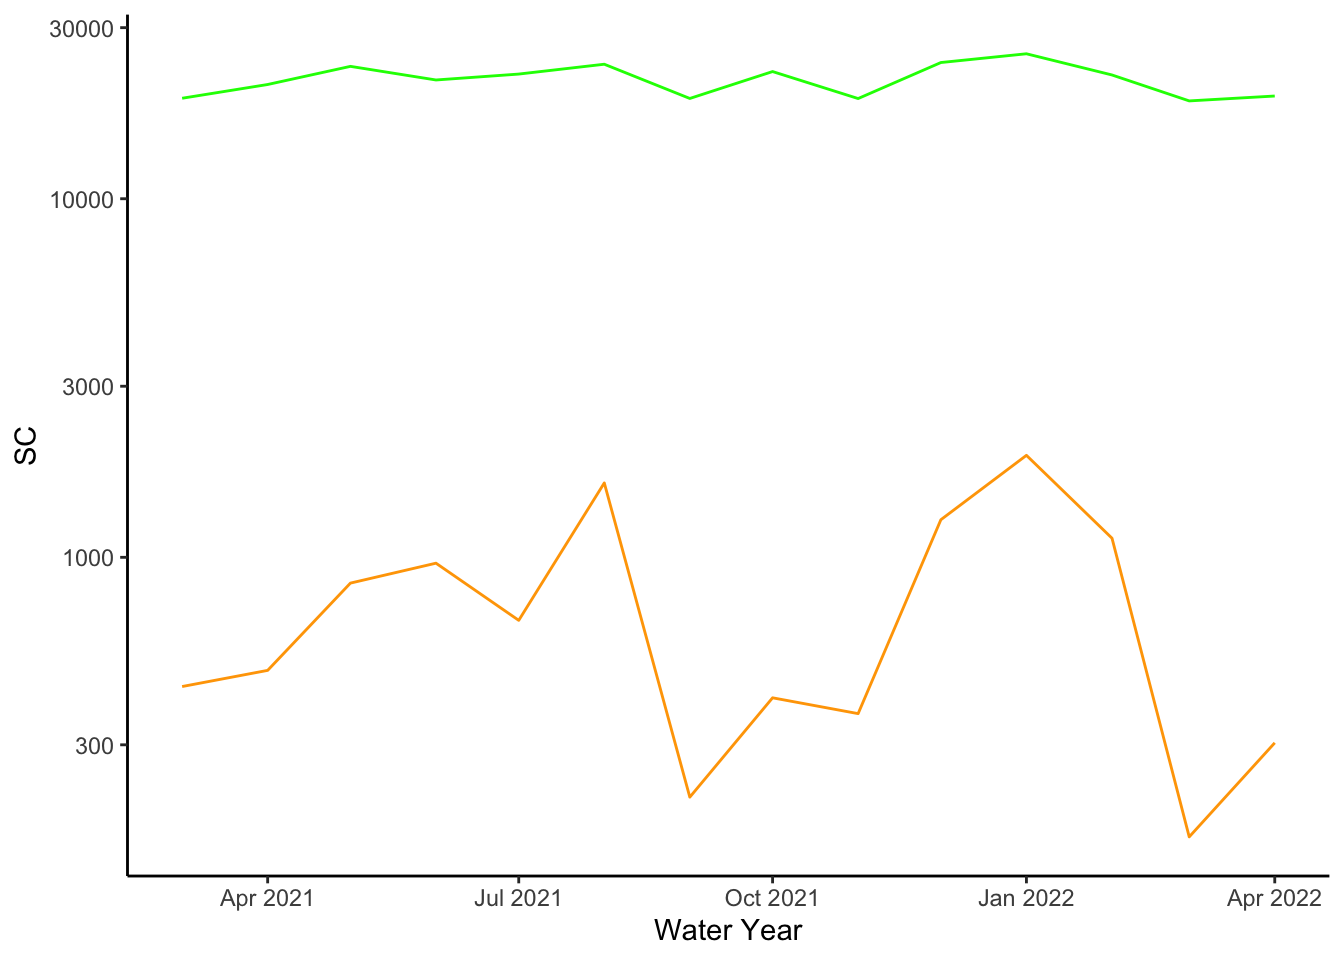
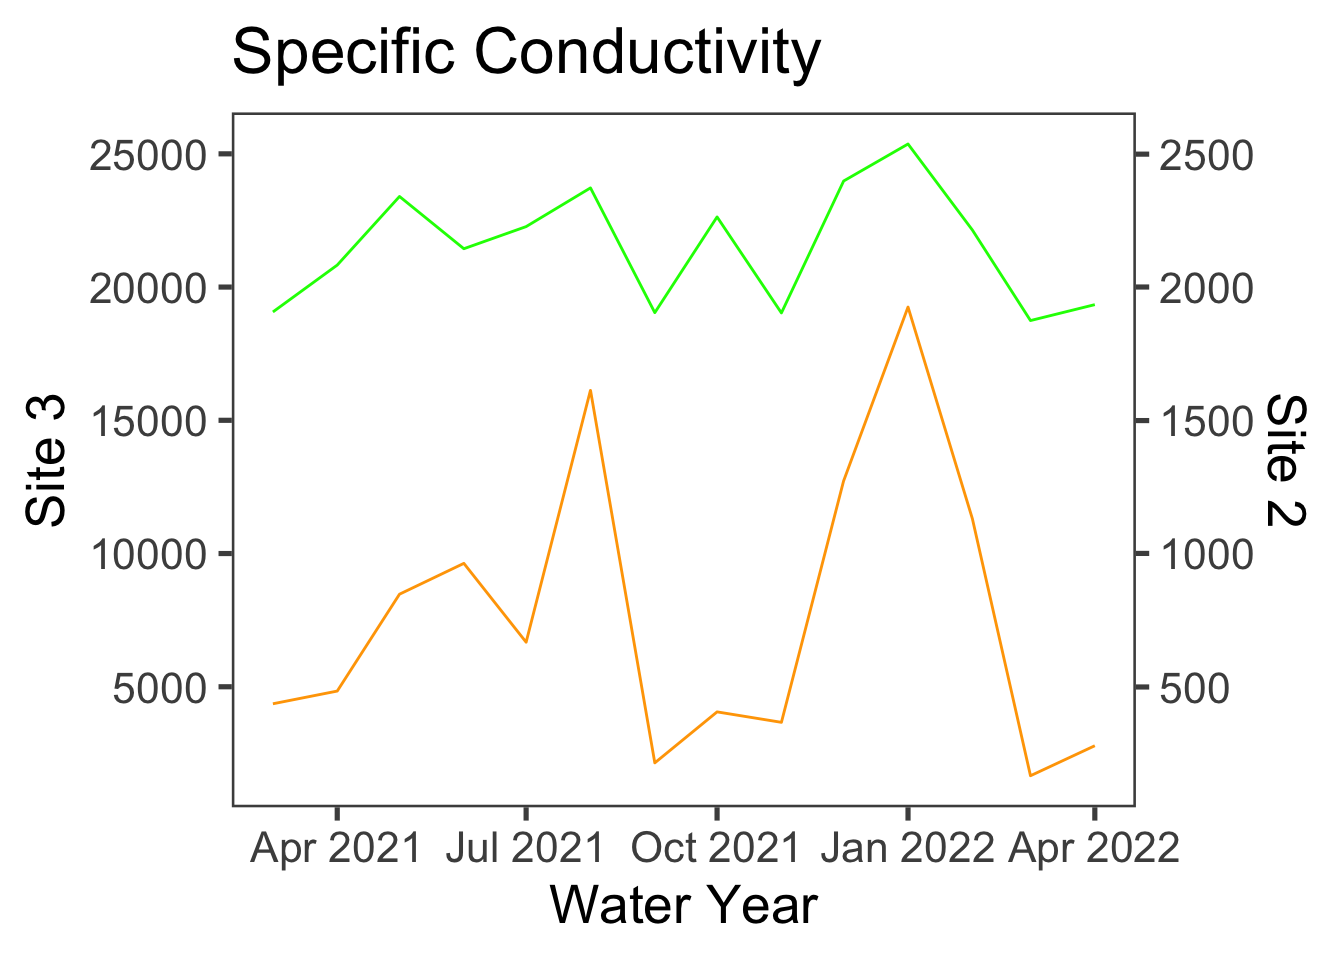
fix sc 2,3 plot

diff --git a/docs/results.html b/docs/results.html
@@ -379,33 +379,34 @@ values.</p>
 <span id="cb17-27"><a href="results.html#cb17-27" aria-hidden="true" tabindex="-1"></a>  <span class="fu">scale_color_identity</span>(<span class="at">guide =</span> <span class="st">&quot;legend&quot;</span>)<span class="sc">+</span></span>
 <span id="cb17-28"><a href="results.html#cb17-28" aria-hidden="true" tabindex="-1"></a>  <span class="fu">ggtitle</span>(<span class="st">&quot;Trenton&quot;</span>)</span></code></pre></div>
 <p><img src="Final-Project_files/figure-html/unnamed-chunk-18-1.png" width="672" /></p>
-<div class="sourceCode" id="cb18"><pre class="sourceCode r"><code class="sourceCode r"><span id="cb18-1"><a href="results.html#cb18-1" aria-hidden="true" tabindex="-1"></a>p1</span></code></pre></div>
-<p><img src="Final-Project_files/figure-html/unnamed-chunk-18-2.png" width="672" /></p>
-<div class="sourceCode" id="cb19"><pre class="sourceCode r"><code class="sourceCode r"><span id="cb19-1"><a href="results.html#cb19-1" aria-hidden="true" tabindex="-1"></a><span class="co">#site 2 and 3 sc</span></span>
-<span id="cb19-2"><a href="results.html#cb19-2" aria-hidden="true" tabindex="-1"></a></span>
-<span id="cb19-3"><a href="results.html#cb19-3" aria-hidden="true" tabindex="-1"></a>sc_mean_dm <span class="ot">&lt;-</span> sc_mean_dm <span class="sc">%&gt;%</span> </span>
-<span id="cb19-4"><a href="results.html#cb19-4" aria-hidden="true" tabindex="-1"></a>  <span class="fu">mutate</span>(<span class="at">day =</span> <span class="dv">1</span>)</span>
-<span id="cb19-5"><a href="results.html#cb19-5" aria-hidden="true" tabindex="-1"></a></span>
-<span id="cb19-6"><a href="results.html#cb19-6" aria-hidden="true" tabindex="-1"></a>sc_mean_dm<span class="sc">$</span>Date <span class="ot">&lt;-</span> <span class="fu">as.Date</span>(<span class="fu">with</span>(sc_mean_dm, <span class="fu">paste</span>(year, month, day, <span class="at">sep=</span> <span class="st">&quot;-&quot;</span>)),</span>
-<span id="cb19-7"><a href="results.html#cb19-7" aria-hidden="true" tabindex="-1"></a>                           <span class="st">&#39;%Y-%m-%d&#39;</span>)</span>
-<span id="cb19-8"><a href="results.html#cb19-8" aria-hidden="true" tabindex="-1"></a></span>
-<span id="cb19-9"><a href="results.html#cb19-9" aria-hidden="true" tabindex="-1"></a>sc_mean_sj <span class="ot">&lt;-</span> sc_mean_sj <span class="sc">%&gt;%</span> </span>
-<span id="cb19-10"><a href="results.html#cb19-10" aria-hidden="true" tabindex="-1"></a>  <span class="fu">mutate</span>(<span class="at">day =</span> <span class="dv">1</span>)</span>
-<span id="cb19-11"><a href="results.html#cb19-11" aria-hidden="true" tabindex="-1"></a></span>
-<span id="cb19-12"><a href="results.html#cb19-12" aria-hidden="true" tabindex="-1"></a>sc_mean_sj<span class="sc">$</span>Date <span class="ot">&lt;-</span> <span class="fu">as.Date</span>(<span class="fu">with</span>(sc_mean_sj, <span class="fu">paste</span>(year, month, day, <span class="at">sep=</span> <span class="st">&quot;-&quot;</span>)),</span>
-<span id="cb19-13"><a href="results.html#cb19-13" aria-hidden="true" tabindex="-1"></a>                           <span class="st">&#39;%Y-%m-%d&#39;</span>)</span>
-<span id="cb19-14"><a href="results.html#cb19-14" aria-hidden="true" tabindex="-1"></a></span>
-<span id="cb19-15"><a href="results.html#cb19-15" aria-hidden="true" tabindex="-1"></a>sc_dm_sj <span class="ot">&lt;-</span> <span class="fu">right_join</span>(sc_mean_dm, sc_mean_sj, <span class="at">by =</span><span class="st">&#39;Date&#39;</span>)</span>
-<span id="cb19-16"><a href="results.html#cb19-16" aria-hidden="true" tabindex="-1"></a></span>
-<span id="cb19-17"><a href="results.html#cb19-17" aria-hidden="true" tabindex="-1"></a><span class="fu">ggplot</span>(sc_dm_sj) <span class="sc">+</span></span>
-<span id="cb19-18"><a href="results.html#cb19-18" aria-hidden="true" tabindex="-1"></a>  <span class="fu">geom_line</span>(<span class="fu">aes</span>(<span class="at">x =</span> Date, <span class="at">y =</span> sc_mean2), <span class="at">color =</span> <span class="st">&quot;orange&quot;</span>)<span class="sc">+</span></span>
-<span id="cb19-19"><a href="results.html#cb19-19" aria-hidden="true" tabindex="-1"></a>  <span class="fu">geom_line</span>(<span class="fu">aes</span>(<span class="at">x =</span> Date, <span class="at">y =</span> sc_mean3), <span class="at">color =</span> <span class="st">&quot;green&quot;</span>)<span class="sc">+</span></span>
-<span id="cb19-20"><a href="results.html#cb19-20" aria-hidden="true" tabindex="-1"></a>  <span class="fu">scale_y_log10</span>()<span class="sc">+</span></span>
-<span id="cb19-21"><a href="results.html#cb19-21" aria-hidden="true" tabindex="-1"></a>  <span class="fu">ylab</span>(<span class="st">&#39;SC&#39;</span>) <span class="sc">+</span></span>
-<span id="cb19-22"><a href="results.html#cb19-22" aria-hidden="true" tabindex="-1"></a>  <span class="fu">xlab</span>(<span class="st">&#39;Water Year&#39;</span>)<span class="sc">+</span></span>
-<span id="cb19-23"><a href="results.html#cb19-23" aria-hidden="true" tabindex="-1"></a>  <span class="fu">theme_classic</span>()<span class="sc">+</span></span>
-<span id="cb19-24"><a href="results.html#cb19-24" aria-hidden="true" tabindex="-1"></a>  <span class="fu">scale_color_identity</span>(<span class="at">guide =</span> <span class="st">&quot;legend&quot;</span>)</span></code></pre></div>
-<p><img src="Final-Project_files/figure-html/unnamed-chunk-19-1.png" width="672" /></p>
+<div class="sourceCode" id="cb18"><pre class="sourceCode r"><code class="sourceCode r"><span id="cb18-1"><a href="results.html#cb18-1" aria-hidden="true" tabindex="-1"></a><span class="co">#SC plot for site 2 vs 3 </span></span>
+<span id="cb18-2"><a href="results.html#cb18-2" aria-hidden="true" tabindex="-1"></a></span>
+<span id="cb18-3"><a href="results.html#cb18-3" aria-hidden="true" tabindex="-1"></a>sc_mean_dm <span class="ot">&lt;-</span> sc_mean_dm <span class="sc">%&gt;%</span> </span>
+<span id="cb18-4"><a href="results.html#cb18-4" aria-hidden="true" tabindex="-1"></a>  <span class="fu">mutate</span>(<span class="at">day =</span> <span class="dv">1</span>)</span>
+<span id="cb18-5"><a href="results.html#cb18-5" aria-hidden="true" tabindex="-1"></a></span>
+<span id="cb18-6"><a href="results.html#cb18-6" aria-hidden="true" tabindex="-1"></a>sc_mean_dm<span class="sc">$</span>Date <span class="ot">&lt;-</span> <span class="fu">as.Date</span>(<span class="fu">with</span>(sc_mean_dm, <span class="fu">paste</span>(year, month, day, <span class="at">sep=</span> <span class="st">&quot;-&quot;</span>)), <span class="st">&#39;%Y-%m-%d&#39;</span>)</span>
+<span id="cb18-7"><a href="results.html#cb18-7" aria-hidden="true" tabindex="-1"></a></span>
+<span id="cb18-8"><a href="results.html#cb18-8" aria-hidden="true" tabindex="-1"></a>sc_mean_sj <span class="ot">&lt;-</span> sc_mean_sj <span class="sc">%&gt;%</span> </span>
+<span id="cb18-9"><a href="results.html#cb18-9" aria-hidden="true" tabindex="-1"></a>  <span class="fu">mutate</span>(<span class="at">day =</span> <span class="dv">1</span>)</span>
+<span id="cb18-10"><a href="results.html#cb18-10" aria-hidden="true" tabindex="-1"></a></span>
+<span id="cb18-11"><a href="results.html#cb18-11" aria-hidden="true" tabindex="-1"></a>sc_mean_sj<span class="sc">$</span>Date <span class="ot">&lt;-</span> <span class="fu">as.Date</span>(<span class="fu">with</span>(sc_mean_sj, <span class="fu">paste</span>(year, month, day, <span class="at">sep=</span> <span class="st">&quot;-&quot;</span>)), <span class="st">&#39;%Y-%m-%d&#39;</span>)</span>
+<span id="cb18-12"><a href="results.html#cb18-12" aria-hidden="true" tabindex="-1"></a></span>
+<span id="cb18-13"><a href="results.html#cb18-13" aria-hidden="true" tabindex="-1"></a>sc_dm_sj <span class="ot">&lt;-</span> <span class="fu">right_join</span>(sc_mean_dm, sc_mean_sj, <span class="at">by =</span><span class="st">&#39;Date&#39;</span>)</span>
+<span id="cb18-14"><a href="results.html#cb18-14" aria-hidden="true" tabindex="-1"></a>  </span>
+<span id="cb18-15"><a href="results.html#cb18-15" aria-hidden="true" tabindex="-1"></a>p2 <span class="ot">&lt;-</span> <span class="fu">ggplot</span>(sc_dm_sj) <span class="sc">+</span></span>
+<span id="cb18-16"><a href="results.html#cb18-16" aria-hidden="true" tabindex="-1"></a>    <span class="fu">geom_line</span>(<span class="fu">aes</span>(<span class="at">x =</span> Date, <span class="at">y =</span> sc_mean2<span class="sc">*</span><span class="dv">10</span>), <span class="at">color =</span> <span class="st">&quot;Orange&quot;</span>)<span class="sc">+</span></span>
+<span id="cb18-17"><a href="results.html#cb18-17" aria-hidden="true" tabindex="-1"></a>    <span class="fu">geom_line</span>(<span class="fu">aes</span>(<span class="at">x =</span> Date, <span class="at">y =</span> sc_mean3), <span class="at">color =</span> <span class="st">&quot;Green&quot;</span>)<span class="sc">+</span></span>
+<span id="cb18-18"><a href="results.html#cb18-18" aria-hidden="true" tabindex="-1"></a>    <span class="fu">ylab</span>(<span class="st">&#39;SC&#39;</span>) <span class="sc">+</span></span>
+<span id="cb18-19"><a href="results.html#cb18-19" aria-hidden="true" tabindex="-1"></a>    <span class="fu">xlab</span>(<span class="st">&#39;Water Year&#39;</span>)<span class="sc">+</span></span>
+<span id="cb18-20"><a href="results.html#cb18-20" aria-hidden="true" tabindex="-1"></a>    <span class="fu">theme_classic</span>()<span class="sc">+</span></span>
+<span id="cb18-21"><a href="results.html#cb18-21" aria-hidden="true" tabindex="-1"></a>    <span class="fu">scale_color_identity</span>(<span class="at">guide =</span> <span class="st">&quot;legend&quot;</span>)</span>
+<span id="cb18-22"><a href="results.html#cb18-22" aria-hidden="true" tabindex="-1"></a></span>
+<span id="cb18-23"><a href="results.html#cb18-23" aria-hidden="true" tabindex="-1"></a>    </span>
+<span id="cb18-24"><a href="results.html#cb18-24" aria-hidden="true" tabindex="-1"></a>p2 <span class="sc">+</span> <span class="fu">scale_y_continuous</span>(<span class="at">name =</span> <span class="st">&quot;Site 3&quot;</span>, <span class="at">sec.axis =</span> <span class="fu">sec_axis</span>(<span class="at">trans =</span><span class="sc">~</span>. <span class="sc">/</span> <span class="dv">10</span>, <span class="at">name=</span> <span class="st">&quot;Site 2&quot;</span>))<span class="sc">+</span></span>
+<span id="cb18-25"><a href="results.html#cb18-25" aria-hidden="true" tabindex="-1"></a>  <span class="fu">theme_few</span>(<span class="at">base_size =</span><span class="dv">20</span>)<span class="sc">+</span></span>
+<span id="cb18-26"><a href="results.html#cb18-26" aria-hidden="true" tabindex="-1"></a>  <span class="fu">ggtitle</span>(<span class="st">&quot;Specific Conductivity&quot;</span>)</span></code></pre></div>
+<p><img src="Final-Project_files/figure-html/unnamed-chunk-19-1.png" width="672" />
+<img src="sc2_3-legend.png" /></p>
 
 </div>
 </div>

diff --git a/docs/index.html b/docs/index.html
@@ -178,7 +178,7 @@ code span.wa { color: #60a0b0; font-weight: bold; font-style: italic; } /* Warni
 <div id="header">
 <h1 class="title">Final Project</h1>
 <p class="author"><em>Cher Prazak</em></p>
-<p class="date"><em>14 Apr, 2022, 11:03 AM</em></p>
+<p class="date"><em>19 Apr, 2022, 11:14 AM</em></p>
 </div>
 <div id="introduction" class="section level1 hasAnchor" number="1">
 <h1><span class="header-section-number">1</span> Introduction<a href="index.html#introduction" class="anchor-section" aria-label="Anchor link to header"></a></h1>
